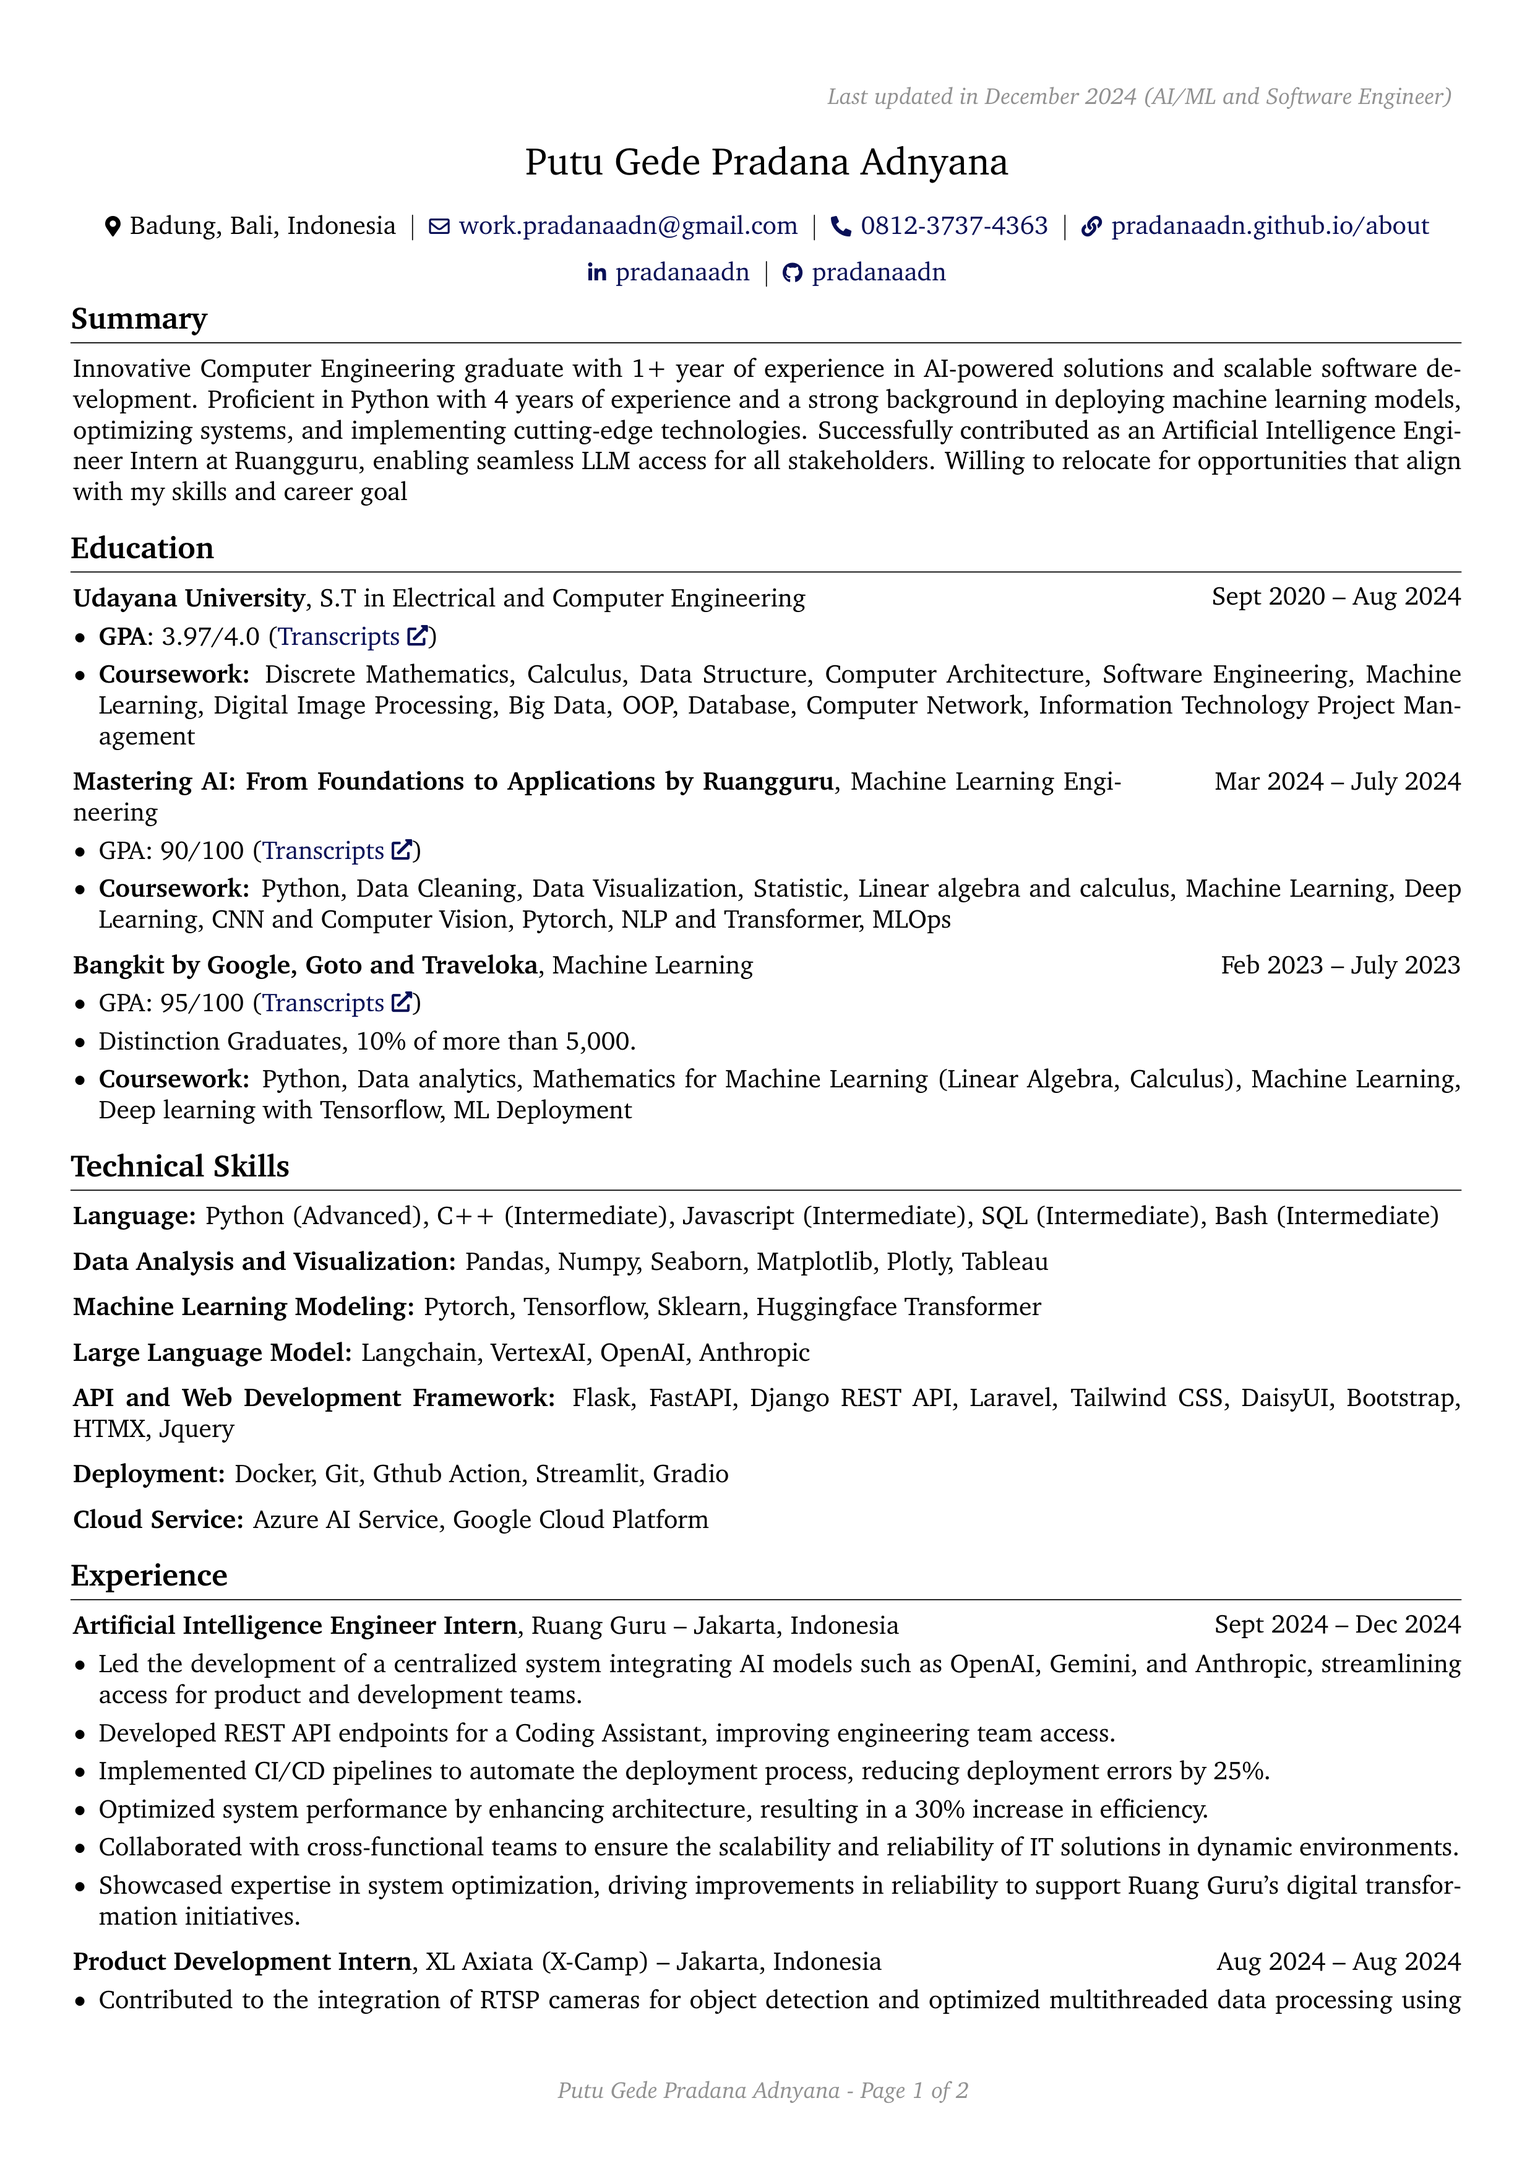
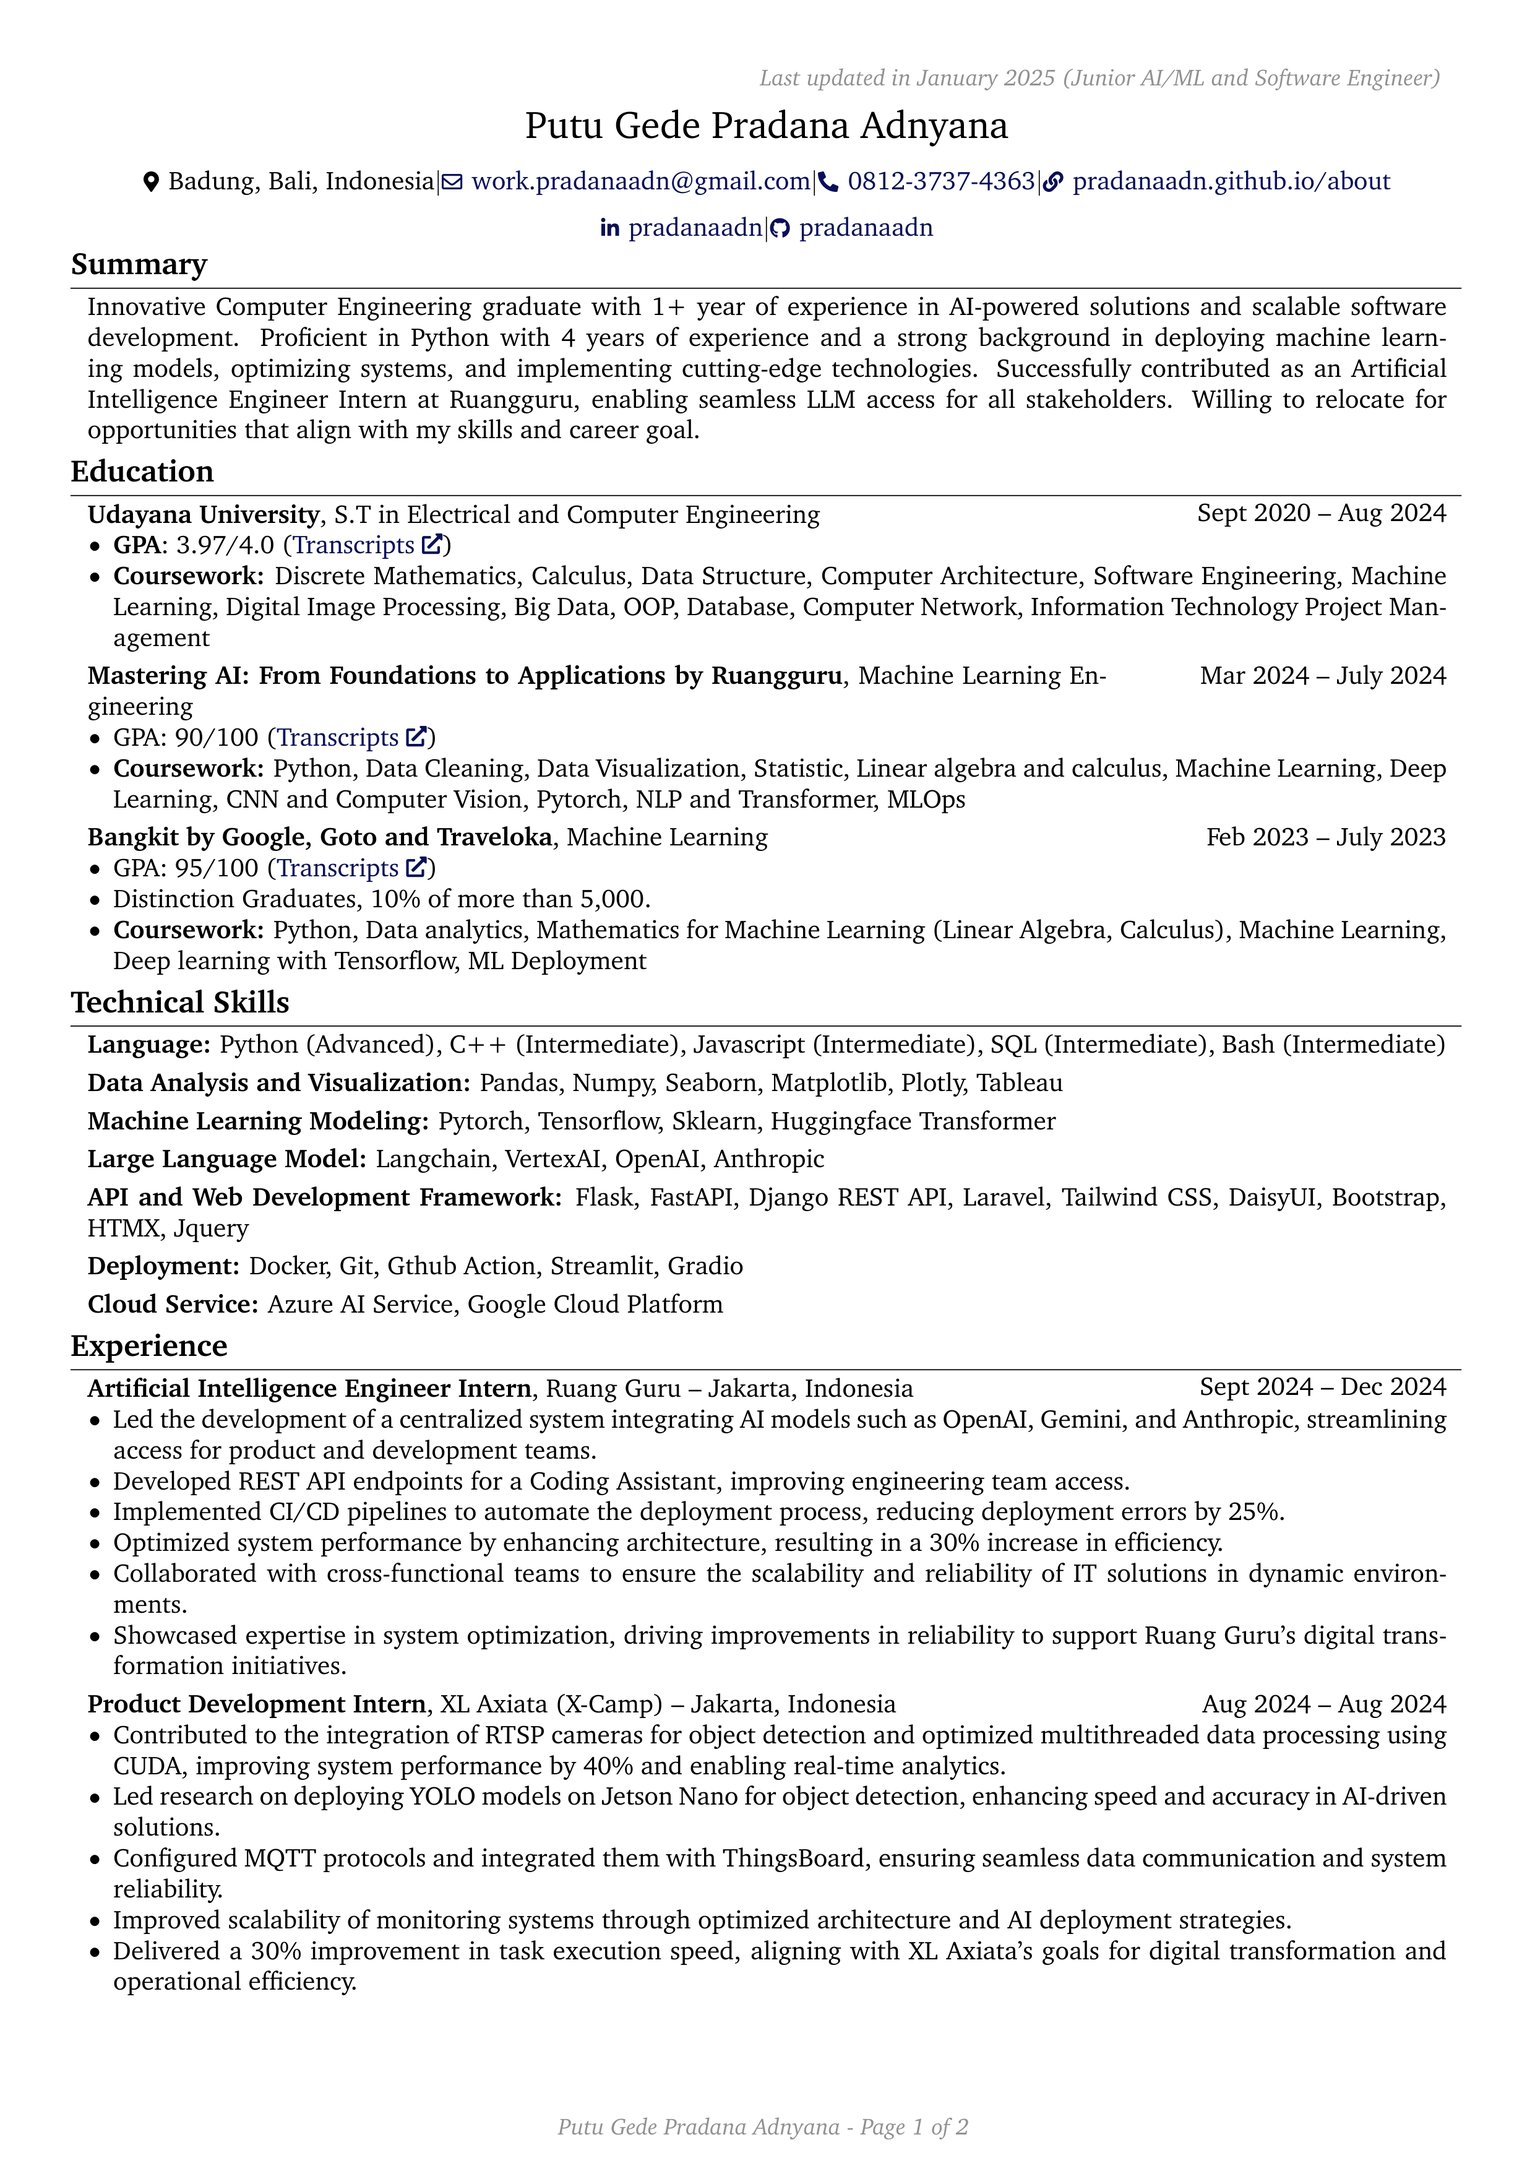
update: layouting

diff --git a/rendercv_output/Putu_Gede_Pradana_Adnyana_CV.html b/rendercv_output/Putu_Gede_Pradana_Adnyana_CV.html
@@ -41,7 +41,7 @@
         <li>GitHub: <a href="https://github.com/pradanaadn">pradanaadn</a></li>
         </ul>
         <h1>Summary</h1>
-        <p>Innovative Computer Engineering graduate with 1+ year of experience in AI-powered solutions and scalable software development. Proficient in Python with 4 years of experience and a strong background in deploying machine learning models, optimizing systems, and implementing cutting-edge technologies. Successfully contributed as an Artificial Intelligence Engineer Intern at Ruangguru, enabling seamless LLM access for all stakeholders. Willing to relocate for opportunities that align with my skills and career goal</p>
+        <p>Innovative Computer Engineering graduate with 1+ year of experience in AI-powered solutions and scalable software development. Proficient in Python with 4 years of experience and a strong background in deploying machine learning models, optimizing systems, and implementing cutting-edge technologies. Successfully contributed as an Artificial Intelligence Engineer Intern at Ruangguru, enabling seamless LLM access for all stakeholders. Willing to relocate for opportunities that align with my skills and career goal.</p>
         <h1>Education</h1>
         <h2>Udayana University, S.T in Electrical and Computer Engineering</h2>
         <ul>

diff --git a/rendercv_output/Putu_Gede_Pradana_Adnyana_CV.tex b/rendercv_output/Putu_Gede_Pradana_Adnyana_CV.tex
@@ -3,11 +3,11 @@
 % Packages:
 \usepackage[
     ignoreheadfoot, % set margins without considering header and footer
-    top=2 cm, % seperation between body and page edge from the top
-    bottom=2 cm, % seperation between body and page edge from the bottom
-    left=1 cm, % seperation between body and page edge from the left
-    right=1 cm, % seperation between body and page edge from the right
-    footskip=1.0 cm, % seperation between body and footer
+    top=1.5cm, % seperation between body and page edge from the top
+    bottom=1cm, % seperation between body and page edge from the bottom
+    left=1cm, % seperation between body and page edge from the left
+    right=1cm, % seperation between body and page edge from the right
+    footskip=0.5 cm, % seperation between body and footer
     % showframe % for debugging 
 ]{geometry} % for adjusting page geometry
 \usepackage{titlesec} % for customizing section titles
@@ -68,20 +68,20 @@
     -1pt
 }{
     % top space:
-    0.3 cm
+    0.1cm
 }{
     % bottom space:
-    0.2 cm
+    0.1cm
 } % section title spacing
 
 \renewcommand\labelitemi{$\vcenter{\hbox{\small$\bullet$}}$} % custom bullet points
 \newenvironment{highlights}{
     \begin{itemize}[
-        topsep=0.10 cm,
-        parsep=0.10 cm,
+        topsep=0cm,
+        parsep=0cm,
         partopsep=0pt,
         itemsep=0pt,
-        leftmargin=0 cm + 10pt
+        leftmargin=0cm + 10pt
     ]
 }{
     \end{itemize}
@@ -90,8 +90,8 @@
 
 \newenvironment{highlightsforbulletentries}{
     \begin{itemize}[
-        topsep=0.10 cm,
-        parsep=0.10 cm,
+        topsep=0cm,
+        parsep=0cm,
         partopsep=0pt,
         itemsep=0pt,
         leftmargin=10pt
@@ -102,9 +102,9 @@
 
 \newenvironment{onecolentry}{
     \begin{adjustwidth}{
-        0 cm + 0.00001 cm
+        0.2cm + 0.00001 cm
     }{
-        0 cm + 0.00001 cm
+        0.2cm + 0.00001 cm
     }
 }{
     \end{adjustwidth}
@@ -113,7 +113,7 @@
 \newenvironment{twocolentry}[2][]{
     \onecolentry
     \def\secondColumn{#2}
-    \setcolumnwidth{\fill, 4.5 cm}
+    \setcolumnwidth{\fill, 4.5cm}
     \begin{paracol}{2}
 }{
     \switchcolumn \raggedleft \secondColumn
@@ -124,7 +124,7 @@
 \newenvironment{threecolentry}[3][]{
     \onecolentry
     \def\thirdColumn{#3}
-    \setcolumnwidth{, \fill, 4.5 cm}
+    \setcolumnwidth{, \fill, 4.5cm}
     \begin{paracol}{3}
     {\raggedright #2} \switchcolumn
 }{
@@ -142,10 +142,10 @@
 \newcommand{\placelastupdatedtext}{% \placetextbox{<horizontal pos>}{<vertical pos>}{<stuff>}
   \AddToShipoutPictureFG*{% Add <stuff> to current page foreground
     \put(
-        \LenToUnit{\paperwidth-1 cm-0 cm+0.05cm},
-        \LenToUnit{\paperheight-1.0 cm}
+        \LenToUnit{\paperwidth-1cm-0.2cm+0.05cm},
+        \LenToUnit{\paperheight-0.75 cm}
     ){\vtop{{\null}\makebox[0pt][c]{
-        \small\color{gray}\textit{Last updated in December 2024 (AI/ML and Software Engineer)}\hspace{\widthof{Last updated in December 2024 (AI/ML and Software Engineer)}}
+        \small\color{gray}\textit{Last updated in January 2025 (Junior AI/ML and Software Engineer)}\hspace{\widthof{Last updated in January 2025 (Junior AI/ML and Software Engineer)}}
     }}}%
   }%
 }%
@@ -169,33 +169,33 @@
     \begin{header}
         \fontsize{15pt}{15pt}\selectfont Putu Gede Pradana Adnyana
 
-        \vspace{5 pt}
+        \vspace{2pt}
 
         \normalsize
         \mbox{{\footnotesize\faMapMarker*}\hspace*{0.13cm}Badung, Bali, Indonesia}%
-        \kern 5.0 pt%
+        \kern 0.0 pt%
         \AND%
-        \kern 5.0 pt%
+        \kern 0.0 pt%
         \mbox{\hrefWithoutArrow{mailto:work.pradanaadn@gmail.com}{{\footnotesize\faEnvelope[regular]}\hspace*{0.13cm}work.pradanaadn@gmail.com}}%
-        \kern 5.0 pt%
+        \kern 0.0 pt%
         \AND%
-        \kern 5.0 pt%
+        \kern 0.0 pt%
         \mbox{\hrefWithoutArrow{tel:+62-812-3737-4363}{{\footnotesize\faPhone*}\hspace*{0.13cm}0812-3737-4363}}%
-        \kern 5.0 pt%
+        \kern 0.0 pt%
         \AND%
-        \kern 5.0 pt%
+        \kern 0.0 pt%
         \mbox{\hrefWithoutArrow{https://pradanaadn.github.io/about/}{{\footnotesize\faLink}\hspace*{0.13cm}pradanaadn.github.io/about}}%
-        \kern 5.0 pt%
+        \kern 0.0 pt%
         \AND%
-        \kern 5.0 pt%
+        \kern 0.0 pt%
         \mbox{\hrefWithoutArrow{https://linkedin.com/in/pradanaadn}{{\footnotesize\faLinkedinIn}\hspace*{0.13cm}pradanaadn}}%
-        \kern 5.0 pt%
+        \kern 0.0 pt%
         \AND%
-        \kern 5.0 pt%
+        \kern 0.0 pt%
         \mbox{\hrefWithoutArrow{https://github.com/pradanaadn}{{\footnotesize\faGithub}\hspace*{0.13cm}pradanaadn}}%
     \end{header}
 
-    \vspace{5 pt - 0.3 cm}
+    \vspace{1pt - 0.1cm}
 
 
     \section{Summary}
@@ -204,7 +204,7 @@
 
         
         \begin{onecolentry}
-            Innovative Computer Engineering graduate with 1+ year of experience in AI-powered solutions and scalable software development. Proficient in Python with 4 years of experience and a strong background in deploying machine learning models, optimizing systems, and implementing cutting-edge technologies. Successfully contributed as an Artificial Intelligence Engineer Intern at Ruangguru, enabling seamless LLM access for all stakeholders. Willing to relocate for opportunities that align with my skills and career goal
+            Innovative Computer Engineering graduate with 1+ year of experience in AI-powered solutions and scalable software development. Proficient in Python with 4 years of experience and a strong background in deploying machine learning models, optimizing systems, and implementing cutting-edge technologies. Successfully contributed as an Artificial Intelligence Engineer Intern at Ruangguru, enabling seamless LLM access for all stakeholders. Willing to relocate for opportunities that align with my skills and career goal.
         \end{onecolentry}
 
 
@@ -219,7 +219,7 @@
         }
             \textbf{Udayana University}, S.T in Electrical and Computer Engineering\end{twocolentry}
 
-        \vspace{0.10 cm}
+        \vspace{0cm}
         \begin{onecolentry}
             \begin{highlights}
                 \item \textbf{GPA}: 3.97/4.0 (\href{https://drive.google.com/file/d/1pP8v7Sbi2i_VDCOLNyjXUbzSdkNwGF2a/view?usp=sharing}{Transcripts})
@@ -228,14 +228,14 @@
         \end{onecolentry}
 
 
-        \vspace{0.2 cm}
+        \vspace{0.1cm}
 
         \begin{twocolentry}{
             Mar 2024 – July 2024
         }
             \textbf{Mastering AI: From Foundations to Applications by Ruangguru}, Machine Learning Engineering\end{twocolentry}
 
-        \vspace{0.10 cm}
+        \vspace{0cm}
         \begin{onecolentry}
             \begin{highlights}
                 \item GPA: 90/100 (\href{https://drive.google.com/file/d/1zavbSHSpPOePGauqHs-WYxpkUhOqOrRa/view}{Transcripts})
@@ -244,14 +244,14 @@
         \end{onecolentry}
 
 
-        \vspace{0.2 cm}
+        \vspace{0.1cm}
 
         \begin{twocolentry}{
             Feb 2023 – July 2023
         }
             \textbf{Bangkit by Google, Goto and Traveloka}, Machine Learning\end{twocolentry}
 
-        \vspace{0.10 cm}
+        \vspace{0cm}
         \begin{onecolentry}
             \begin{highlights}
                 \item GPA: 95/100 (\href{https://drive.google.com/file/d/1JOm2b6ws9PepLZTCV8uZDdDENN64KT7d/view?usp=sharing}{Transcripts})
@@ -272,37 +272,37 @@
             \textbf{Language:} Python (Advanced), C++ (Intermediate), Javascript (Intermediate), SQL (Intermediate), Bash (Intermediate)
         \end{onecolentry}
 
-        \vspace{0.2 cm}
+        \vspace{0.1cm}
 
         \begin{onecolentry}
             \textbf{Data Analysis and Visualization:} Pandas, Numpy, Seaborn, Matplotlib, Plotly, Tableau
         \end{onecolentry}
 
-        \vspace{0.2 cm}
+        \vspace{0.1cm}
 
         \begin{onecolentry}
             \textbf{Machine Learning Modeling:} Pytorch, Tensorflow, Sklearn, Huggingface Transformer
         \end{onecolentry}
 
-        \vspace{0.2 cm}
+        \vspace{0.1cm}
 
         \begin{onecolentry}
             \textbf{Large Language Model:} Langchain, VertexAI, OpenAI, Anthropic
         \end{onecolentry}
 
-        \vspace{0.2 cm}
+        \vspace{0.1cm}
 
         \begin{onecolentry}
             \textbf{API and Web Development Framework:} Flask, FastAPI, Django REST API, Laravel, Tailwind CSS, DaisyUI, Bootstrap, HTMX, Jquery
         \end{onecolentry}
 
-        \vspace{0.2 cm}
+        \vspace{0.1cm}
 
         \begin{onecolentry}
             \textbf{Deployment:} Docker, Git, Gthub Action, Streamlit, Gradio
         \end{onecolentry}
 
-        \vspace{0.2 cm}
+        \vspace{0.1cm}
 
         \begin{onecolentry}
             \textbf{Cloud Service:} Azure AI Service, Google Cloud Platform
@@ -320,7 +320,7 @@
         }
             \textbf{Artificial Intelligence Engineer Intern}, Ruang Guru -- Jakarta, Indonesia\end{twocolentry}
 
-        \vspace{0.10 cm}
+        \vspace{0cm}
         \begin{onecolentry}
             \begin{highlights}
                 \item Led the development of a centralized system integrating AI models such as OpenAI, Gemini, and Anthropic, streamlining access for product and development teams.
@@ -333,14 +333,14 @@
         \end{onecolentry}
 
 
-        \vspace{0.2 cm}
+        \vspace{0.1cm}
 
         \begin{twocolentry}{
             Aug 2024 – Aug 2024
         }
             \textbf{Product Development Intern}, XL Axiata (X-Camp) -- Jakarta, Indonesia\end{twocolentry}
 
-        \vspace{0.10 cm}
+        \vspace{0cm}
         \begin{onecolentry}
             \begin{highlights}
                 \item Contributed to the integration of RTSP cameras for object detection and optimized multithreaded data processing using CUDA, improving system performance by 40\% and enabling real-time analytics.
@@ -397,7 +397,7 @@
         }
             \textbf{Trash Object Detection - AI-Based Waste Audit and Assistant}\end{twocolentry}
 
-        \vspace{0.10 cm}
+        \vspace{0cm}
         \begin{onecolentry}
             \begin{highlights}
                 \item Tackled waste management issues in Bandung, addressing landfill sites exceeding 800\% capacity, with AI-powered detection and monitoring solutions.
@@ -410,14 +410,14 @@
         \end{onecolentry}
 
 
-        \vspace{0.2 cm}
+        \vspace{0.1cm}
 
         \begin{twocolentry}{
             (\href{https://drive.google.com/file/d/1x37qvoekHEoIhrANusdd5onVDC--48Cn/view?usp=sharing}{Project Report})
         }
             \textbf{Capstone Project Information System}\end{twocolentry}
 
-        \vspace{0.10 cm}
+        \vspace{0cm}
         \begin{onecolentry}
             \begin{highlights}
                 \item Designed an information system by creating database architecture with Entity-Relationship Diagrams (ERD),designing user interfaces using Figma, and conducting requirements analysis with Unified Modeling Language (UML).
@@ -430,14 +430,14 @@
         \end{onecolentry}
 
 
-        \vspace{0.2 cm}
+        \vspace{0.1cm}
 
         \begin{twocolentry}{
             (\href{https://www.linkedin.com/posts/pradanaadn_ummeals-deck-activity-7223282999407099904-g2PD?utm_source=share&utm_medium=member_desktop}{Project Repository})
         }
             \textbf{UmMeals – Maternal and Child Nutrition App}\end{twocolentry}
 
-        \vspace{0.10 cm}
+        \vspace{0cm}
         \begin{onecolentry}
             \begin{highlights}
                 \item Developed an app supporting nutrition tracking for pregnant women and toddlers, featuring personalized monitoring and early stunting detection to provide better health insights.

diff --git a/rendercv_output/Putu_Gede_Pradana_Adnyana_CV.md b/rendercv_output/Putu_Gede_Pradana_Adnyana_CV.md
@@ -10,7 +10,7 @@
 
 # Summary
 
-Innovative Computer Engineering graduate with 1+ year of experience in AI-powered solutions and scalable software development. Proficient in Python with 4 years of experience and a strong background in deploying machine learning models, optimizing systems, and implementing cutting-edge technologies. Successfully contributed as an Artificial Intelligence Engineer Intern at Ruangguru, enabling seamless LLM access for all stakeholders. Willing to relocate for opportunities that align with my skills and career goal
+Innovative Computer Engineering graduate with 1+ year of experience in AI-powered solutions and scalable software development. Proficient in Python with 4 years of experience and a strong background in deploying machine learning models, optimizing systems, and implementing cutting-edge technologies. Successfully contributed as an Artificial Intelligence Engineer Intern at Ruangguru, enabling seamless LLM access for all stakeholders. Willing to relocate for opportunities that align with my skills and career goal.
 
 # Education
 
